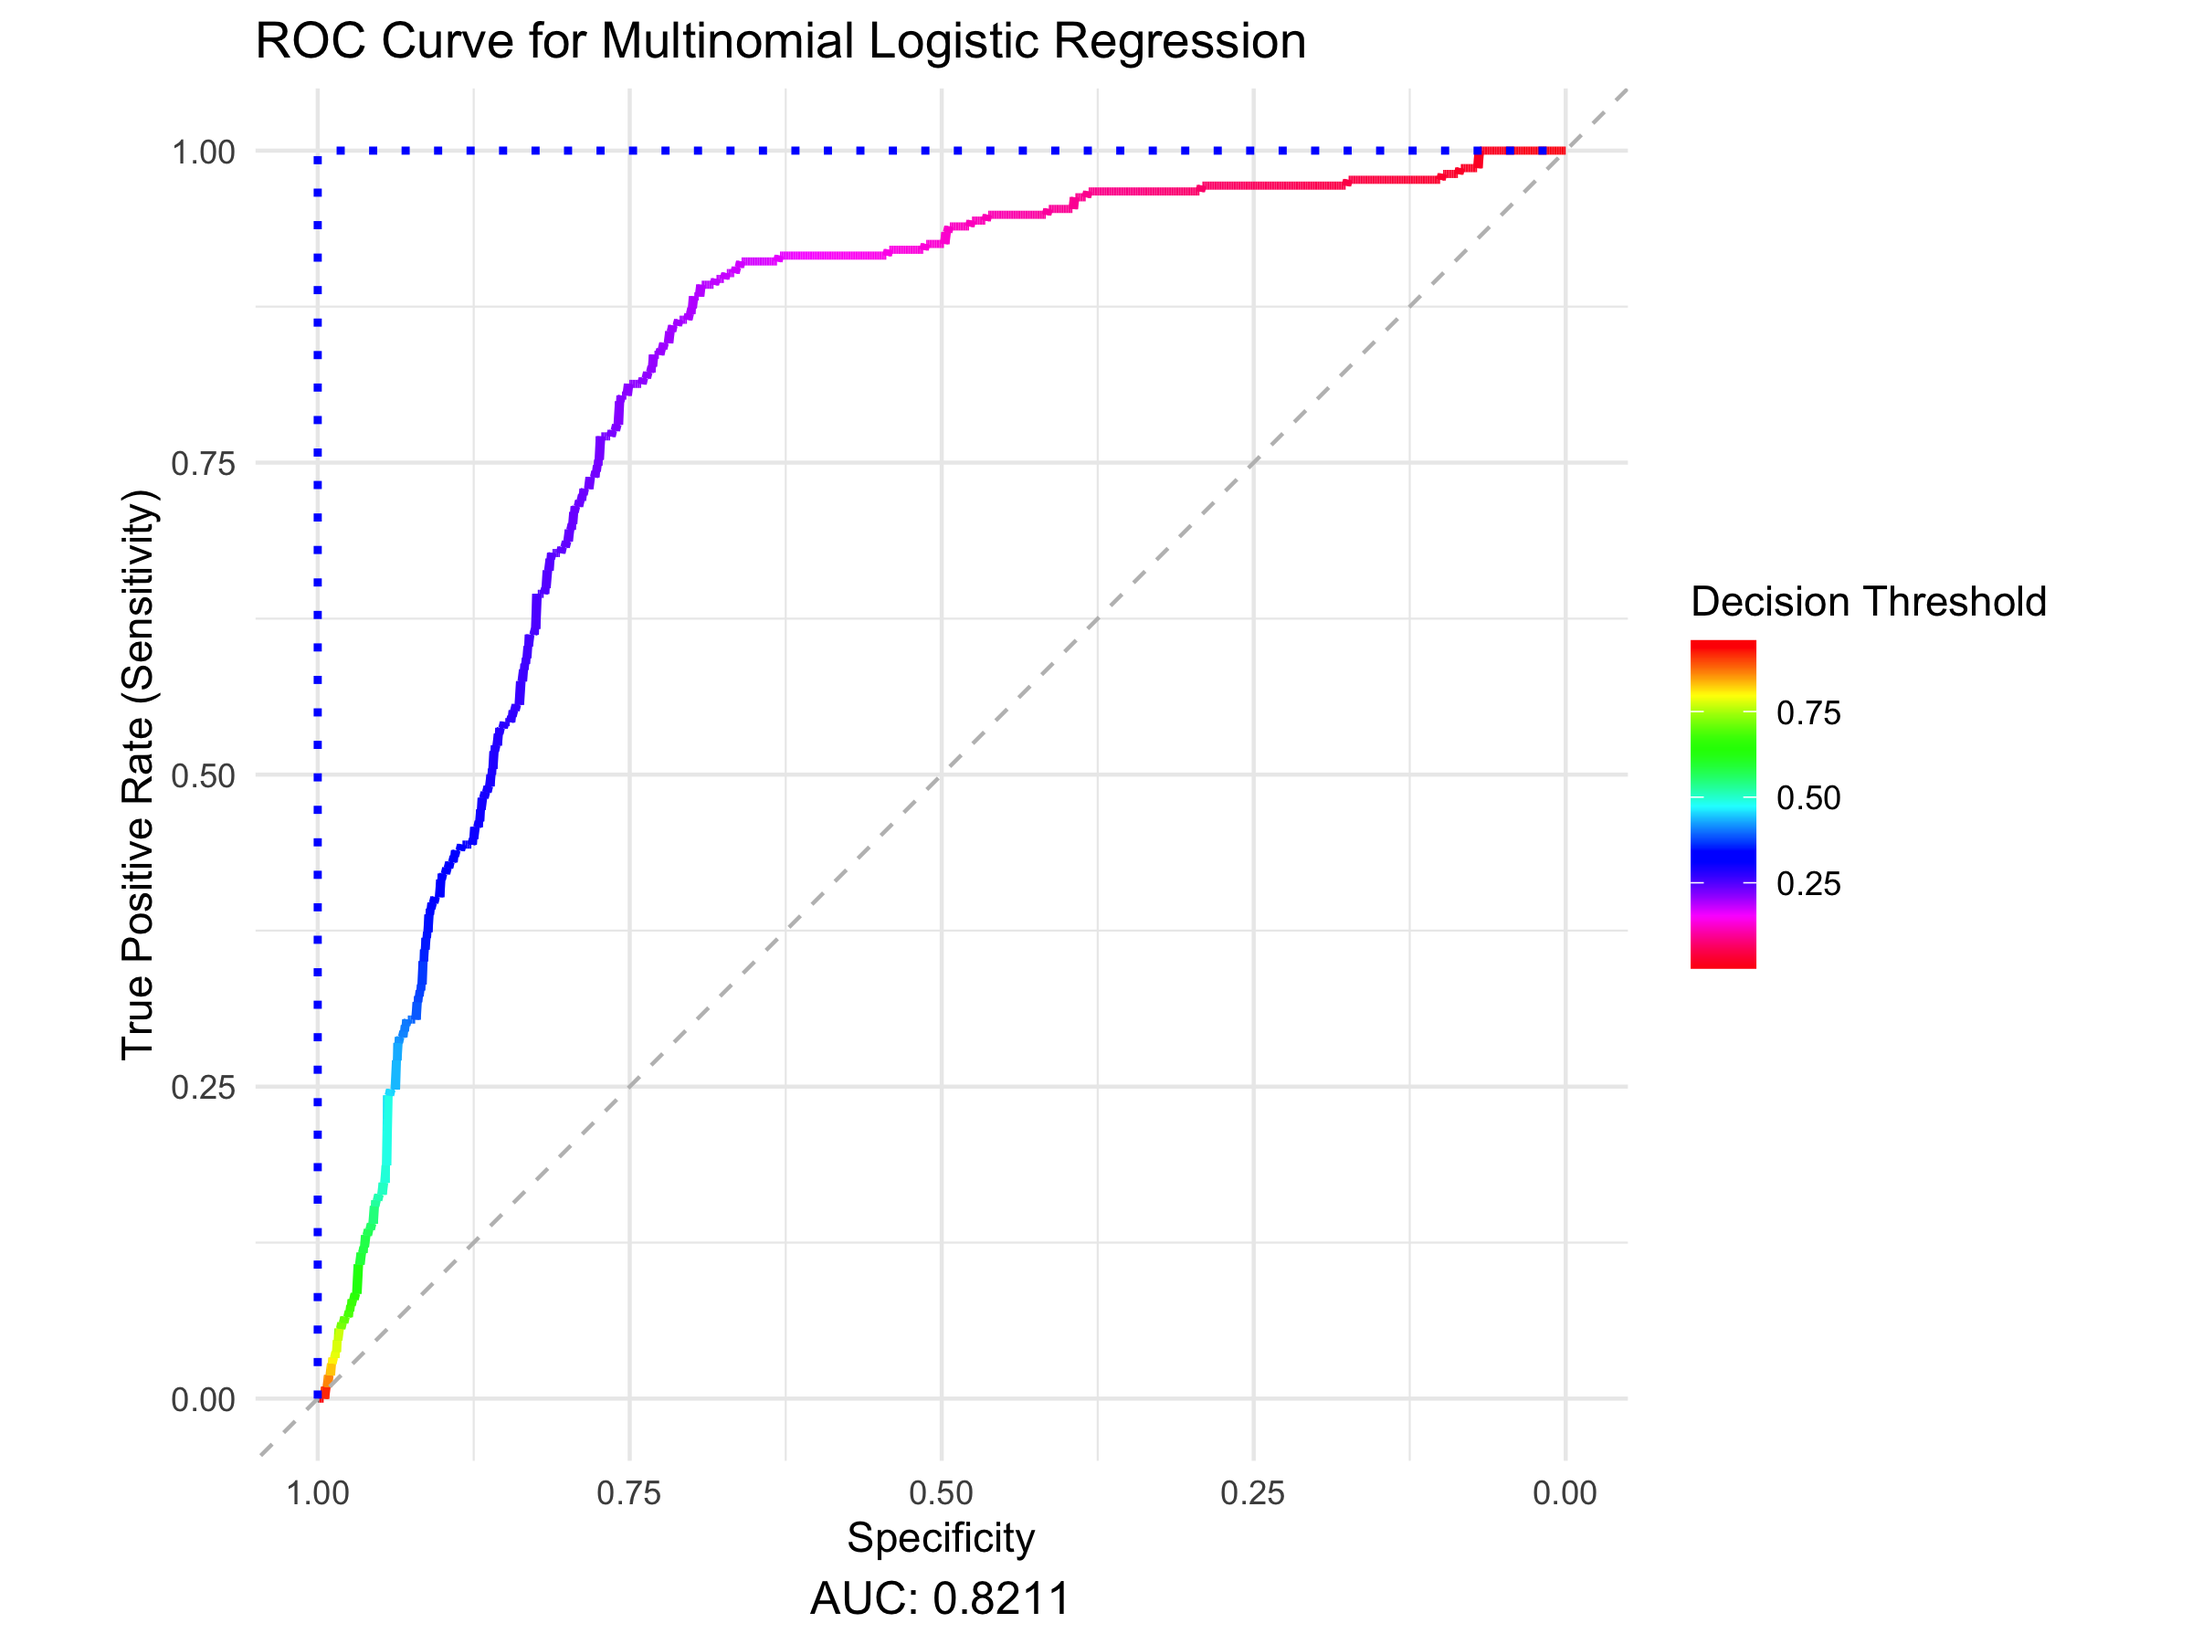
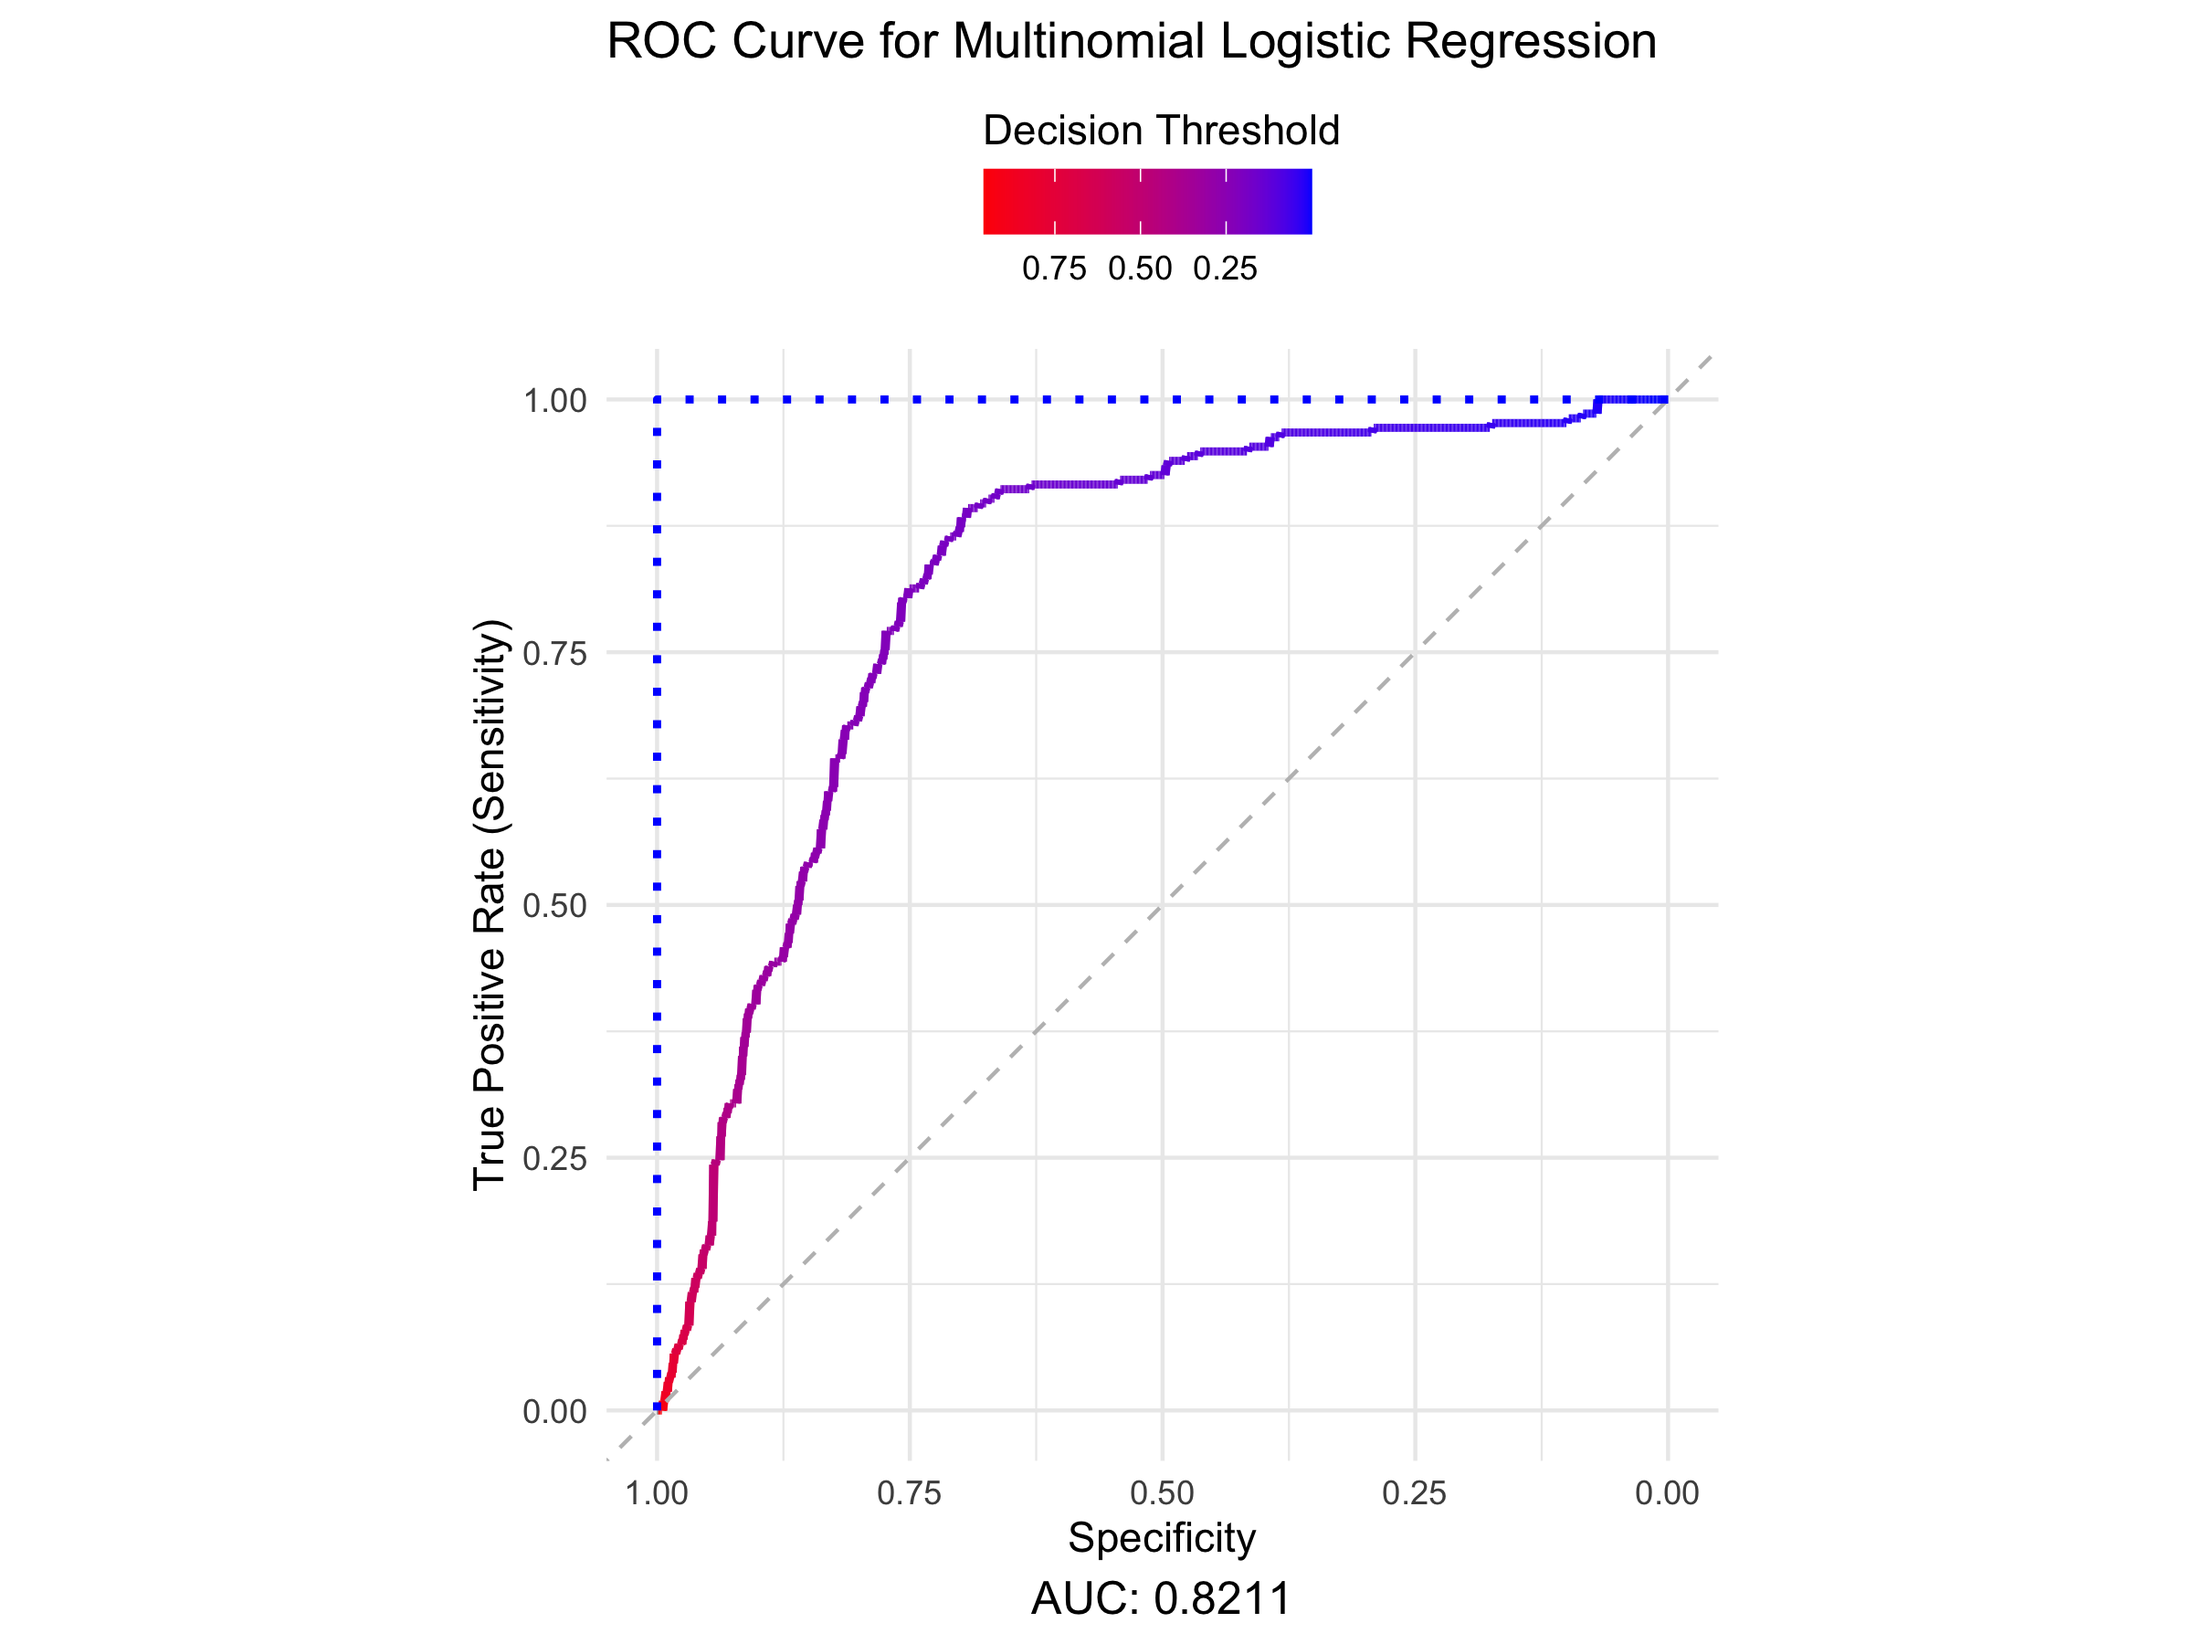
updated the roc curve

diff --git a/90+_DaysPastDue/ReadMe.md b/90+_DaysPastDue/ReadMe.md
@@ -8,15 +8,15 @@ on payments.
 ## Prepare Training Data
 
 ``` r
-setwd("/Users/jacobrichards/Desktop/DS_DA_Projects/Delinquency_Prediction")
+setwd("~/Desktop/DS_DA_Projects/90+_DaysPastDue")
 
 train <- read.csv(
-  file = "/Users/jacobrichards/Desktop/DS_DA_Projects/Delinquency_Prediction/Data_Files/FITB_train.csv", 
+  file = "/Users/jacobrichards/Desktop/DS_DA_Projects/90+_DaysPastDue/Data_Files/FITB_train.csv", 
   header = TRUE
 )
 
 test <- read.csv(
-  file = "/Users/jacobrichards/Desktop/DS_DA_Projects/Delinquency_Prediction/Data_Files/FITB_test.csv", 
+  file = "/Users/jacobrichards/Desktop/DS_DA_Projects/90+_DaysPastDue/Data_Files/FITB_test.csv", 
   header = TRUE
 )
 ```
@@ -138,12 +138,12 @@ library(kableExtra)
 kable(your_tibble, format = "html") %>%
   kable_styling(position = "center") %>%
   save_kable(
-    file = "~/Desktop/DS_DA_Projects/Delinquency_Prediction/ReadMe_files/figure-gfm/t5.png", 
+    file = "~/Desktop/DS_DA_Projects/90+_DaysPastDue/ReadMe_files/figure-gfm/t5.png", 
     zoom = 2
   )
 
 knitr::include_graphics(
-  "~/Desktop/DS_DA_Projects/Delinquency_Prediction/ReadMe_files/figure-gfm/t5.png"
+  "~/Desktop/DS_DA_Projects/90+_DaysPastDue/ReadMe_files/figure-gfm/t5.png"
 )
 ```
 
@@ -295,12 +295,24 @@ ggplot(roc_data, aes(x = FPR, y = TPR, color = Threshold)) +
     caption = paste("AUC:", round(auc_value, 4)),
     color = "Decision Threshold"
   ) +
-  scale_color_gradientn(colors = rev(rainbow(100))) +
+  scale_color_gradient(
+    low = "red",                      # Red corresponds to higher values
+    high = "blue",                    # Blue corresponds to lower values
+    trans = "reverse",                # Reverse the value mapping
+    guide = guide_colorbar(
+      direction = "horizontal",       # Make the legend horizontal
+      title.position = "top"          # Place the title above the gradient
+    )
+  ) +
   coord_fixed() +
   scale_x_reverse() +  
   ylim(0, 1) +
   theme_minimal() +
-  theme(plot.caption = element_text(hjust = 0.5, size = 12))
+  theme(
+    legend.position = "top",          # Place legend at the top
+    legend.justification = "center",  # Center-align the legend
+    plot.caption = element_text(hjust = 0.5, size = 12)
+  )
 ```
 
 <div align="center">
@@ -380,12 +392,12 @@ library(kableExtra)
 kable(your_tibble, format = "html") %>%
   kable_styling(position = "center") %>%
   save_kable(
-    file = "~/Desktop/DS_DA_Projects/Delinquency_Prediction/ReadMe_files/figure-gfm/t2.png", 
+    file = "~/Desktop/DS_DA_Projects/90+_DaysPastDue/ReadMe_files/figure-gfm/t2.png", 
     zoom = 2
   )
 
 knitr::include_graphics(
-  "~/Desktop/DS_DA_Projects/Delinquency_Prediction/ReadMe_files/figure-gfm/t2.png"
+  "~/Desktop/DS_DA_Projects/90+_DaysPastDue/ReadMe_files/figure-gfm/t2.png"
 )
 ```
 
@@ -422,12 +434,12 @@ library(webshot2)
 kable(confusion_table, format = "html") %>%
   kable_styling(position = "center") %>%
   save_kable(
-    file = "~/Desktop/DS_DA_Projects/Delinquency_Prediction/ReadMe_files/figure-gfm/t3.png", 
+    file = "~/Desktop/DS_DA_Projects/90+_DaysPastDue/ReadMe_files/figure-gfm/t3.png", 
     zoom = 2
   )
 
 knitr::include_graphics(
-  "~/Desktop/DS_DA_Projects/Delinquency_Prediction/ReadMe_files/figure-gfm/t3.png"
+  "~/Desktop/DS_DA_Projects/90+_DaysPastDue/ReadMe_files/figure-gfm/t3.png"
 )
 ```
 
